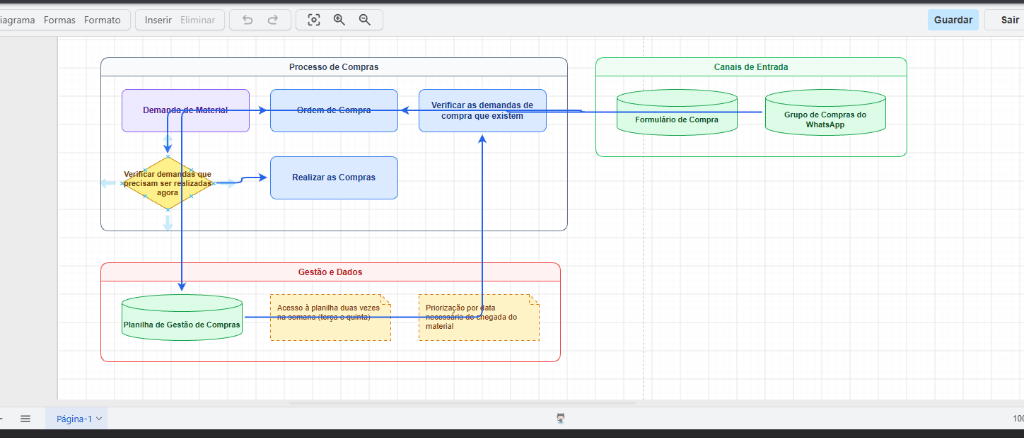
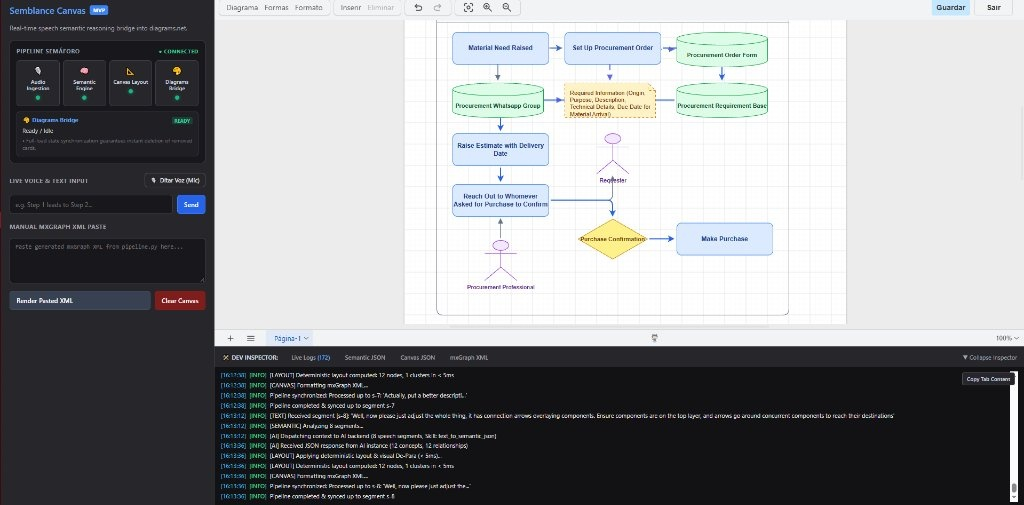
feat(core): visual entity type mapping, queue coalescing, and refined studio preview
- Replace colloquial de-para with formal English Semantic Entity Type Mapping across code and docs
- Update docs/images/pipeline_preview.jpg with high-res, clean studio workflow screenshot
- Update tests and deterministic layout engine naming conventions (10/10 tests passing)

diff --git a/src/canvas/deterministic_layout.py b/src/canvas/deterministic_layout.py
@@ -1,10 +1,10 @@
-"""Deterministic Layout and Semantic De-Para Engine for Semblance Canvas.
+"""Deterministic Layout and Semantic Type Mapping Engine for Semblance Canvas.
 
 Translates logical semantic JSON (Skill 1) into a visually structured Canvas JSON
 in < 5ms without requiring a secondary LLM generation pass.
 
 Features:
-- De-Para Semantic Mapping:
+- Semantic Entity Type Mapping:
   - process_step  -> Rounded blue card (Operational Action / Workflow stage)
   - side_annotation -> Dashed yellow sticky note (Informational note / Caveat)
   - data_store    -> Green cylinder (Spreadsheet / DB / Physical archive)
@@ -22,8 +22,8 @@ import copy
 from typing import Any, Dict, List
 
 
-# Semantic Type -> Visual Style and Dimension De-Para Mapping
-DE_PARA_STYLES: Dict[str, Dict[str, Any]] = {
+# Semantic Type -> Visual Style and Dimension Mapping
+SEMANTIC_TYPE_STYLES: Dict[str, Dict[str, Any]] = {
     "process_step": {
         "style": "rounded=1;whiteSpace=wrap;html=1;fillColor=#DBEAFE;strokeColor=#3B82F6;fontColor=#1E3A8A;fontStyle=1;arcSize=14;fontSize=12;",
         "width": 180,
@@ -68,9 +68,9 @@ CLUSTER_PALETTES = [
 
 
 def resolve_semantic_type(concept: Dict[str, Any]) -> str:
-    """Infers or validates the semantic entity type for graphical de-para."""
+    """Infers or validates the semantic entity type for graphical type mapping."""
     raw_type = (concept.get("type") or "concept").lower().strip()
-    if raw_type in DE_PARA_STYLES:
+    if raw_type in SEMANTIC_TYPE_STYLES:
         return raw_type
 
     label = (concept.get("label") or "").lower()
@@ -139,18 +139,18 @@ def compute_deterministic_canvas_layout(semantic_data: Dict[str, Any]) -> Dict[s
 
         for m_idx, node in enumerate(members):
             s_type = resolve_semantic_type(node)
-            de_para = DE_PARA_STYLES[s_type]
+            type_style = SEMANTIC_TYPE_STYLES[s_type]
 
             col = m_idx % cols_per_row
             row = m_idx // cols_per_row
 
             gx = c_min_x + (col * col_spacing)
             gy = c_min_y + (row * row_spacing)
-            gw = de_para["width"]
-            gh = de_para["height"]
+            gw = type_style["width"]
+            gh = type_style["height"]
 
             node["type"] = s_type
-            node["style"] = de_para["style"]
+            node["style"] = type_style["style"]
             node["geometry"] = {"x": gx, "y": gy, "width": gw, "height": gh}
             layout_nodes.append(node)
             member_bounds.append((gx, gy, gw, gh))
@@ -200,15 +200,15 @@ def compute_deterministic_canvas_layout(semantic_data: Dict[str, Any]) -> Dict[s
 
         for u_idx, node in enumerate(unclustered_nodes):
             s_type = resolve_semantic_type(node)
-            de_para = DE_PARA_STYLES[s_type]
+            type_style = SEMANTIC_TYPE_STYLES[s_type]
 
             node["type"] = s_type
-            node["style"] = de_para["style"]
+            node["style"] = type_style["style"]
             node["geometry"] = {
                 "x": unclustered_x + (u_idx * 210),
                 "y": unclustered_y,
-                "width": de_para["width"],
-                "height": de_para["height"],
+                "width": type_style["width"],
+                "height": type_style["height"],
             }
             layout_nodes.append(node)
 
@@ -228,7 +228,7 @@ def compute_deterministic_canvas_layout(semantic_data: Dict[str, Any]) -> Dict[s
 
     return {
         "canvas_metadata": {
-            "layout_style": "deterministic_de_para",
+            "layout_style": "deterministic_type_mapping",
             "canvas_width": 1600,
             "canvas_height": 1200,
         },

diff --git a/src/server.py b/src/server.py
@@ -96,7 +96,7 @@ async def broadcast_log(message: str, level: str = "INFO"):
 
 
 def process_pipeline_sync(segments, status_callback=None, log_callback=None, event_callback=None):
-    """Processes speech segments through Skill 1 and deterministic visual De-Para, reconciling persistent state."""
+    """Processes speech segments through Skill 1 and deterministic visual type mapping, reconciling persistent state."""
     if status_callback:
         status_callback("semantic", "active", f"Analyzing {len(segments)} segments...")
 
@@ -133,9 +133,9 @@ def process_pipeline_sync(segments, status_callback=None, log_callback=None, eve
     session_state.sync_from_semantic(semantic_json)
 
     if status_callback:
-        status_callback("layout", "active", "Applying deterministic layout & visual De-Para (< 5ms)...")
+        status_callback("layout", "active", "Applying deterministic layout & visual type mapping (< 5ms)...")
 
-    print(f"[Server] Computing Deterministic Layout & Visual De-Para...")
+    print(f"[Server] Computing Deterministic Layout & Visual Type Mapping...")
     # Compute visual layout deterministically in Python in 2ms without secondary LLM call
     canvas_json = compute_deterministic_canvas_layout(semantic_json)
 

diff --git a/tests/test_geometry.py b/tests/test_geometry.py
@@ -79,7 +79,7 @@ class TestLayoutGeometryStabilization(unittest.TestCase):
         self.assertIn("jumpStyle=arc", xml)
         self.assertIn("jumpSize=8", xml)
 
-    def test_deterministic_de_para_layout(self):
+    def test_deterministic_semantic_layout(self):
         from src.canvas.deterministic_layout import compute_deterministic_canvas_layout
 
         semantic_data = {
@@ -100,7 +100,7 @@ class TestLayoutGeometryStabilization(unittest.TestCase):
         self.assertEqual(len(canvas_json["visual_clusters"]), 1)
 
         nodes = {n["id"]: n for n in canvas_json["nodes"]}
-        # Verify De-Para styling
+        # Verify typed entity visual styling
         self.assertIn("fillColor=#DBEAFE", nodes["step1"]["style"])
         self.assertIn("shape=note", nodes["note1"]["style"])
         self.assertIn("shape=cylinder3", nodes["db1"]["style"])

diff --git a/README.md b/README.md
@@ -11,7 +11,7 @@ If you love visually organizing the buckets of ideas coming spontaneously from y
 This is a local **Real-Time Speech-to-Canvas Reasoning Studio** that listens to user speech, extracts strictly asserted facts under the **Non-Invention Rule (Factual Provenance Guardrail)**, and dynamically drives an embedded [diagrams.net](https://app.diagrams.net) canvas with auto-reconciled geometry, persistent state, and interactive visual telemetry.
 
 ![Semblance Canvas Real-time Execution Preview](docs/images/pipeline_preview.jpg)
-*Real multi-turn execution: voice/text pipeline ingesting procurement rules into the browser studio, generating visual "De-Para" taxonomy (green cylinders for data stores, yellow post-its for side notes, yellow diamond for decision gates, blue cards for workflow steps), dynamic swimlanes, and persistent session state on an embedded diagrams.net canvas.*
+*Real multi-turn execution: voice/text pipeline ingesting procurement rules into the browser studio, generating visual entity taxonomy (green cylinders for data stores, yellow post-its for side notes, yellow diamond for decision gates, blue cards for workflow steps, persona for stakeholders), clean orthogonal connectors, and persistent session state on an embedded diagrams.net canvas.*
 
 ---
 
@@ -74,9 +74,9 @@ So, since this project started as a personal problem solver, it currently works 
 ## ✨ Implemented Core Capabilities
 
 1. **Strict Provenance & Non-Invention Guardrail**: Every concept node and relationship edge must trace back to explicit transcript segments (`source_ids`). Unsupported relationships are strictly rejected.
-2. **Deterministic Layout & Visual "De-Para" Engine (`deterministic_layout.py`)**:
+2. **Deterministic Layout & Visual Type Mapping Engine (`deterministic_layout.py`)**:
    * **Sub-5ms Execution**: Replaced the secondary 25-second LLM layout step with a deterministic Python engine calculating horizontal flows, coordinates, and container geometries in `< 5ms`.
-   * **Visual Entity "De-Para" Taxonomy**: Maps semantic types directly to distinct diagrams.net shapes and colors:
+   * **Visual Entity Taxonomy Mapping**: Maps semantic types directly to distinct diagrams.net shapes and colors:
      * ⚙ `process_step` ➔ Rounded blue card (Operational Action)
      * 📝 `side_annotation` ➔ Yellow dashed sticky note (Observations / Caveats)
      * 🗄 `data_store` ➔ Green cylinder (Databases, Spreadsheets, WhatsApp groups)
@@ -136,7 +136,7 @@ For full technical specifications and active issue tracking, refer to [`KNOWN_IS
          │ Semantic JSON IR (Concepts, Typed Entities, Explicit Edges)
          ▼
 ┌─────────────────────────┐
-│ Deterministic Layout &  │ (Deterministic Visual "De-Para" Engine < 5ms)
+│ Deterministic Layout &  │ (Deterministic Visual Type Mapping Engine < 5ms)
 │  mxGraph Serializer     │ [Entity Taxonomy, Dynamic Swimlanes, Arc Jumps]
 └────────┬────────────────┘
          │ mxGraph Model XML
@@ -187,4 +187,4 @@ Every factual entity in the diagram must maintain verifiable provenance:
 ---
 
 ## ⚡ Current Status
-The Python real-time bridge server (`src.server`), persistent headless `agy` CLI daemon (`stream-json`), diagrams.net embedded iframe, non-invention verification suite, deterministic layout engine (< 5ms), typed entity De-Para taxonomy, client-server speech coalescing, intelligent 4-stage pipeline semáforo, interactive Dev Tab inspector, and session-state deletion lifecycle are fully implemented and running locally with a 100% offline test pass rate (10/10 tests passing).
+The Python real-time bridge server (`src.server`), persistent headless `agy` CLI daemon (`stream-json`), diagrams.net embedded iframe, non-invention verification suite, deterministic layout engine (< 5ms), typed entity shape taxonomy, client-server speech coalescing, intelligent 4-stage pipeline semáforo, interactive Dev Tab inspector, and session-state deletion lifecycle are fully implemented and running locally with a 100% offline test pass rate (10/10 tests passing).

diff --git a/KNOWN_ISSUES.md b/KNOWN_ISSUES.md
@@ -8,7 +8,7 @@ This document tracks known architectural limitations, edge cases, and in-progres
 
 ### 1. Automated CI/CD Workflow (In Construction)
 * **Severity**: Low (Development Infrastructure)
-* **Current State**: The project maintains a complete offline test suite (10 unit tests validating schemas, Non-Invention invariants, state mutations, deterministic layout de-para, and geometry stabilization) which currently runs locally via `python -m unittest discover tests`.
+* **Current State**: The project maintains a complete offline test suite (10 unit tests validating schemas, Non-Invention invariants, state mutations, deterministic layout type mapping, and geometry stabilization) which currently runs locally via `python -m unittest discover tests`.
 * **Planned Resolution**: An automated GitHub Actions CI/CD pipeline (covering multi-platform testing on Ubuntu/Windows/macOS, Flake8 linting, and JSON schema verification) is actively in construction.  
   * **Milestone**: It will be deployed following the completion of the pre-publication validation suite.
 
@@ -64,7 +64,7 @@ This document tracks known architectural limitations, edge cases, and in-progres
 
 ## ✅ Recently Resolved & Landed Optimizations
 
-### Landed: Enhanced Semantic Differentiation & Deterministic "De-Para" Engine
+### Landed: Enhanced Semantic Differentiation & Deterministic Type Mapping Engine
 * **Status**: Completed (`src/canvas/deterministic_layout.py`)
 * **Impact**: Eliminated the secondary 25-second LLM layout call (Skill 2) from the critical loop. Geometry and visual typing are now calculated in **< 5ms** directly in Python:
   * ⚙ `process_step` ➔ Rounded blue card (Operational Action)

diff --git a/docs/ROADMAP.md b/docs/ROADMAP.md
@@ -81,12 +81,12 @@ flowchart LR
 ---
 
 ## Phase 4: Mode A & Mode B Feature Completion
-> **Objective**: Refine visual layout heuristics, deterministic De-Para, and stream debouncing.
+> **Objective**: Refine visual layout heuristics, deterministic shape mapping, and stream debouncing.
 
 ### Tasks:
-1. **Deterministic Layout & Visual De-Para Engine**:
+1. **Deterministic Layout & Visual Type Mapping Engine**:
    - [x] Implement sub-5ms Python layout engine replacing secondary LLM layout call.
-   - [x] Visual De-Para mapping: `process_step` (blue card), `side_annotation` (dashed post-it), `data_store` (green cylinder), `decision_gate` (yellow diamond), `actor` (persona).
+   - [x] Visual entity type mapping: `process_step` (blue card), `side_annotation` (dashed post-it), `data_store` (green cylinder), `decision_gate` (yellow diamond), `actor` (persona).
    - [x] Dynamic container bounding box calculation with multi-cluster wrap-around.
 2. **Speech Debounce & Queue Coalescing**:
    - [x] Implement 8-word / 1.2s silence debounce in browser to prevent single-word fragment turns.

diff --git a/skills/text_to_semantic_json/SKILL.md b/skills/text_to_semantic_json/SKILL.md
@@ -43,7 +43,7 @@ Analyze transcribed speech segments from the user, determine whether the input r
     ```
   - **Template Scaffolding**: When a recognized framework (like Ishikawa / Fishbone) is requested, standard structural categories (e.g., Man, Machine, Method, Material, Measurement, Environment) may be generated as `template_scaffolding`, but leaves/causes remain empty placeholders unless explicitly supplied.
 
-### 4. Semantic Entity Typing (The Visual De-Para)
+### 4. Semantic Entity Typing (Visual Taxonomy Mapping)
 When extracting concepts into `concepts`, classify each entity's `type` according to its true operational role:
 - `process_step`: Active operational tasks, workflow phases, or transitions (*"verificar escopo"*, *"gerar ordem de compra"*, *"executar compras"*).
 - `side_annotation`: Contextual notes, observations, caveats, or constraints (*"formulário ainda não existe, será criado"*, *"imprevistos durante a execução"*).

diff --git a/docs/ARCHITECTURE.md b/docs/ARCHITECTURE.md
@@ -108,9 +108,9 @@ The semantic layer operates in two distinct modes:
   - `MOVE_NODE` / `CLUSTER_NODES`
   - `APPLY_TEMPLATE`
 
-### 3.3.1 Deterministic Layout & Visual "De-Para" Engine (`deterministic_layout.py`)
+### 3.3.1 Deterministic Layout & Visual Type Mapping Engine (`deterministic_layout.py`)
 - **Sub-5ms Geometric Layout**: To eliminate the latency bottleneck of calling a second LLM pass (Skill 2: ~20-25s), layout calculations and coordinates are executed deterministically in Python in **< 5ms**.
-- **Entity Type De-Para**:
+- **Entity Visual Type Mapping**:
   - `process_step` ➔ Blue rounded card (Operational Workflow)
   - `side_annotation` ➔ Yellow dashed sticky note (Observations, Caveats)
   - `data_store` ➔ Green cylinder (Databases, Spreadsheets, WhatsApp groups)

diff --git a/docs/DATA_MODELS_AND_SCHEMAS.md b/docs/DATA_MODELS_AND_SCHEMAS.md
@@ -75,7 +75,7 @@ Represents an individual visual entity on the canvas.
         "template_branch",
         "placeholder"
       ],
-      "description": "Classification of the node determining its visual geometry and De-Para styling"
+      "description": "Classification of the node determining its visual geometry and shape styling"
     },
     "source_ids": {
       "type": "array",
